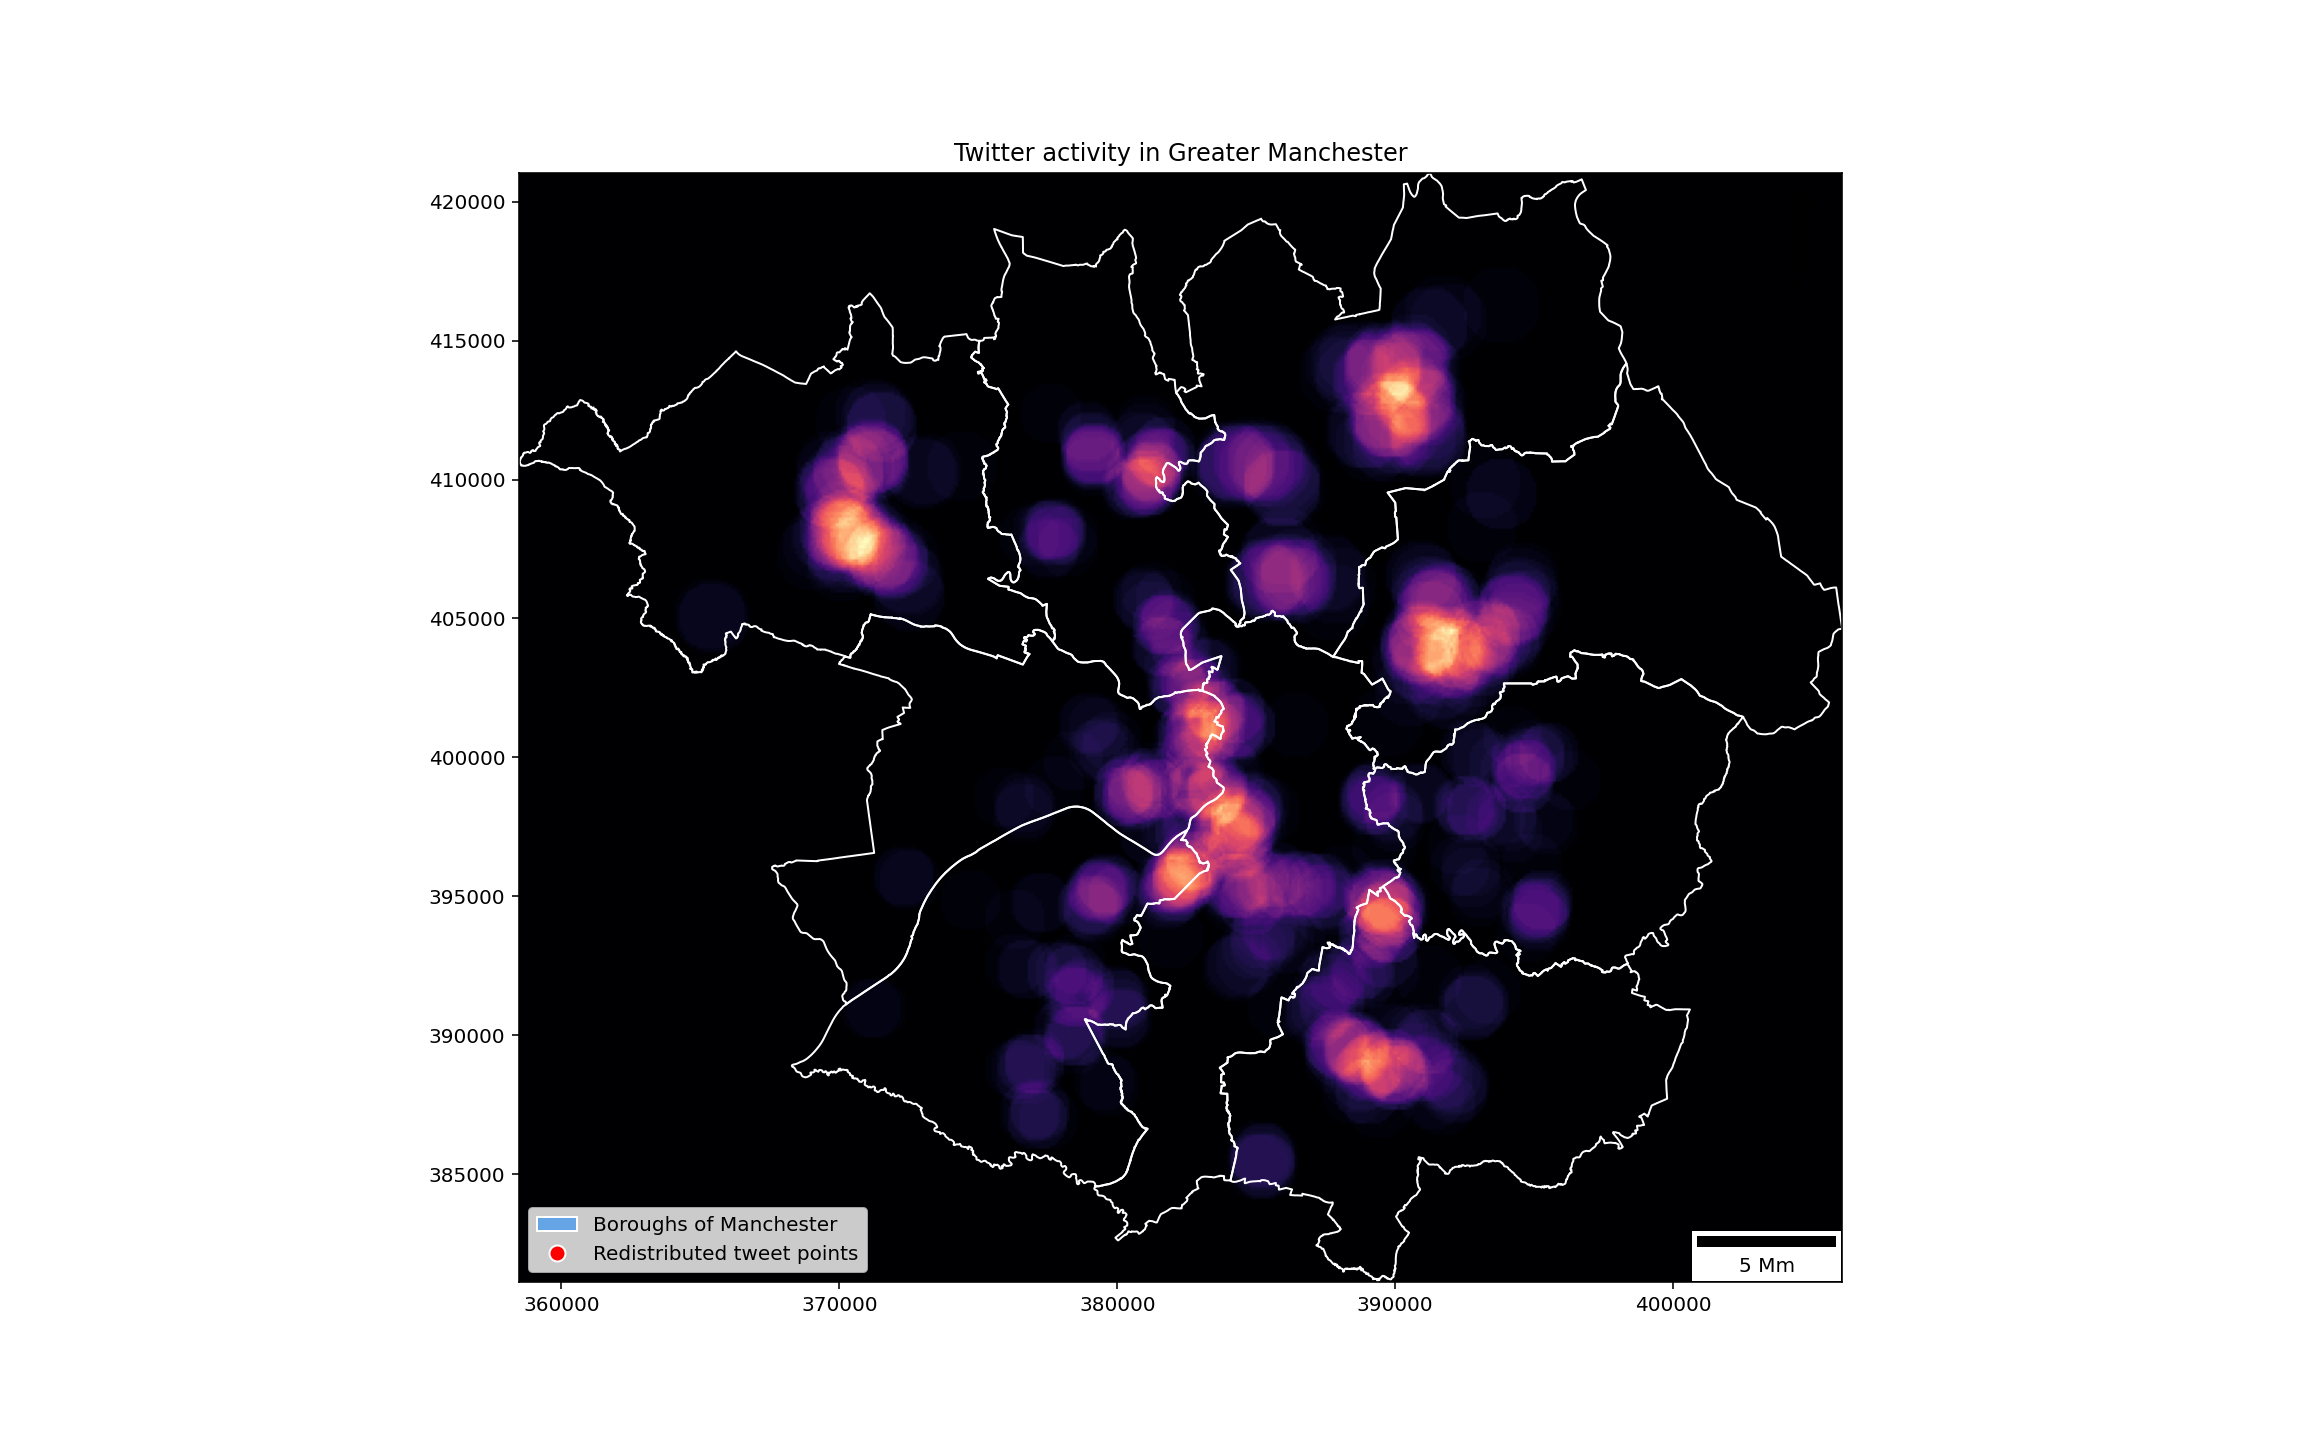
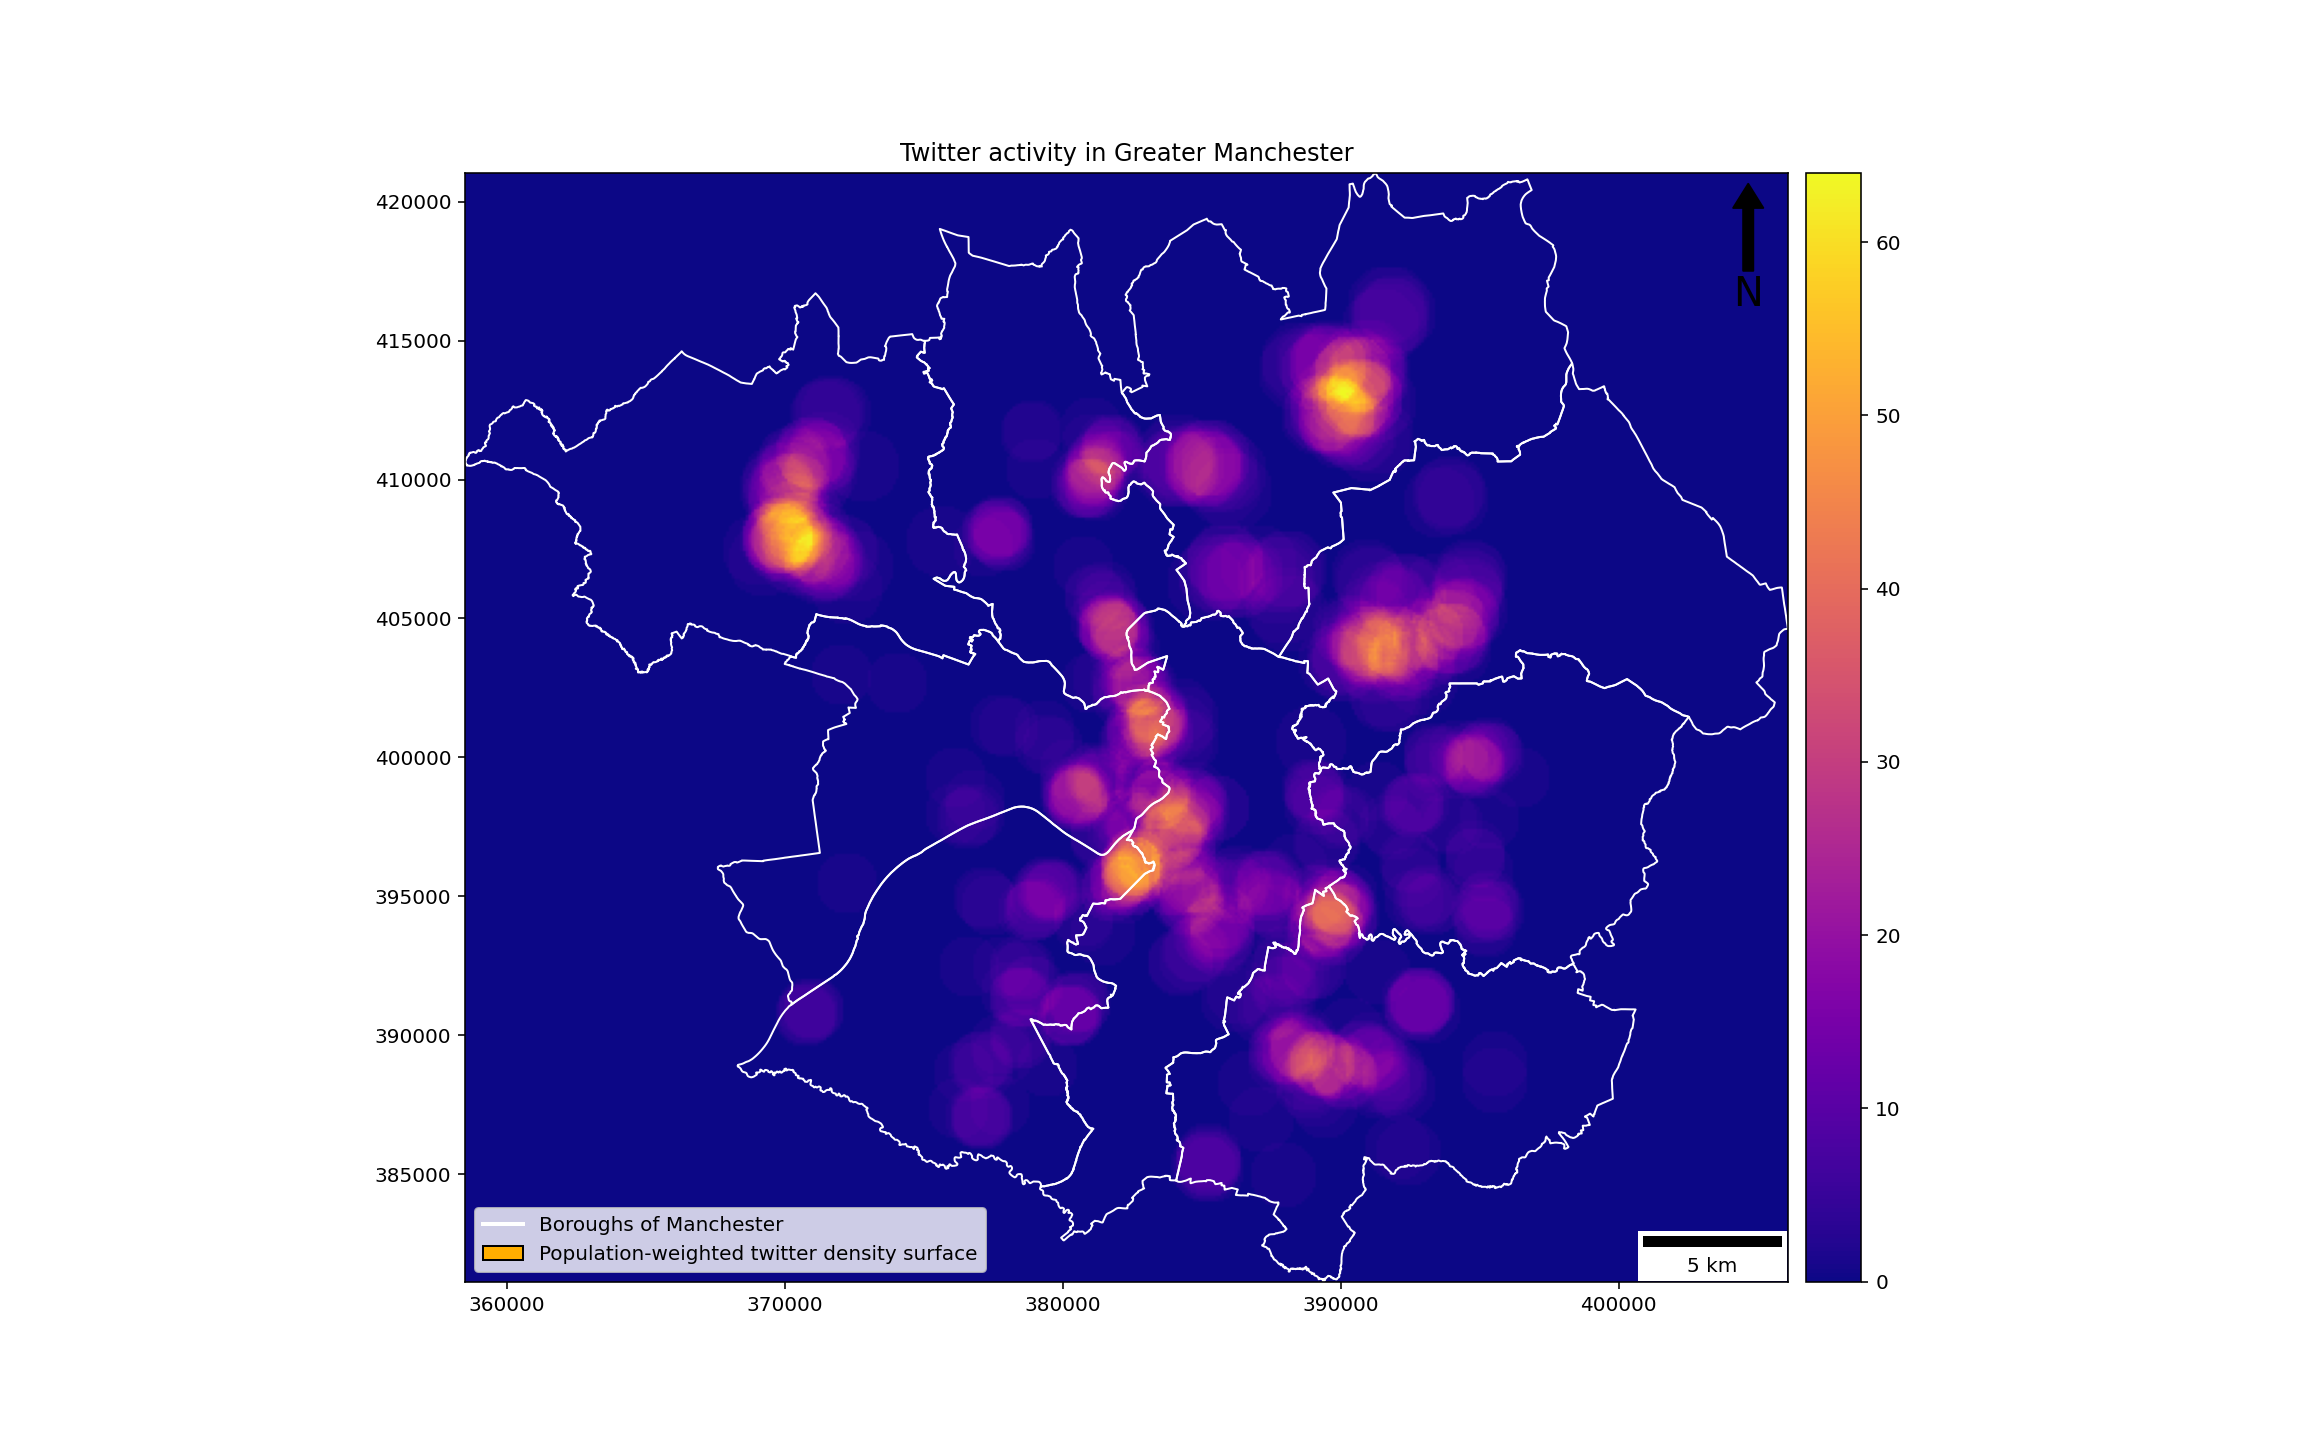
Map details

diff --git a/assessment2.py b/assessment2.py
@@ -12,17 +12,20 @@ start_time = perf_counter()
 from geopandas import read_file
 from rasterio import open as rio_open
 from numpy.random import uniform
+from math import floor, ceil
 from shapely.geometry import Point
 from rasterio.transform import rowcol
 from matplotlib_scalebar.scalebar import ScaleBar
+from matplotlib.colors import Normalize
 from matplotlib.pyplot import subplots, savefig
 from rasterio.plot import show as rio_show
 from skimage.draw import disk
+from matplotlib.cm import ScalarMappable
 from numpy import zeros
 from matplotlib.lines import Line2D
 from matplotlib.patches import Patch
     #Importing files
-tweets_dataset = read_file("C:/Users/User/OneDrive - The University of Manchester/UGIS/GitHub/ugis-assessment2/data/wr/level3-tweets-subset.shp")
+tweets_dataset = read_file("C:/Users/User/OneDrive - The University of Manchester/UGIS/GitHub/ugis-Assessment2/data/wr/level3-tweets-subset.shp")
 gm_districts = read_file("C:/Users/User/OneDrive - The University of Manchester/UGIS/GitHub/ugis-assessment2/data/wr/gm-districts.shp")
 with rio_open ("C:/Users/User/OneDrive - The University of Manchester/UGIS/GitHub/ugis-assessment2/data/wr/100m_pop_2019.tif") as pop:
     pop_data = pop.read(1)
@@ -98,7 +101,7 @@ rio_show(
     outputSurface,
     ax=my_ax,
     transform=transform,
-    cmap="magma",
+    cmap="plasma",
     )
 
 gm_districts.boundary.plot(
@@ -115,14 +118,20 @@ my_ax.annotate('N', xy=(x, y), xytext=(x, y-arrow_length),
     ha='center', va='center', fontsize=20, xycoords=my_ax.transAxes)
 
 # add scalebar
-my_ax.add_artist(ScaleBar(dx=1, units="km", location="lower right"))
+my_ax.add_artist(ScaleBar(dx=1, units="m", location="lower right"))
+
+#Adding a color bar
+fig.colorbar(ScalarMappable(norm=Normalize(vmin=floor(outputSurface.min()), vmax=ceil(outputSurface.max())), cmap='plasma'), ax=my_ax, pad=0.01)
 
 # add legend for point
 my_ax.legend(
     handles=[
-        Patch(facecolor=(0, 0.5, 1, 0.5), edgecolor='white', label=f'Boroughs of Manchester'),
-        Line2D([0], [0], marker='o', color=(1,1,1,0), label='Redistributed tweet points', markerfacecolor='red', markersize=8)
-    ], loc='lower left')
+        Line2D([0],[0],color='white', linewidth=2, label='Greater Manchester boroughs boundaries',
+           )
+        ],
+    loc='lower left'
+)
+    
 
 #Save the image
 savefig('./out/twitter_activity_gm.png')
